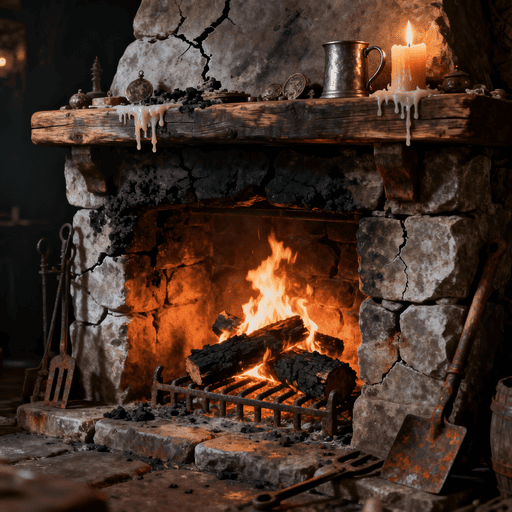
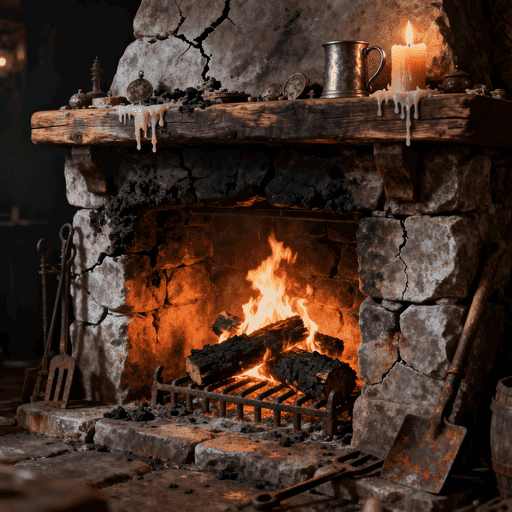
Add a description in the action modal

diff --git a/frontend/views/quest/tavern.php b/frontend/views/quest/tavern.php
@@ -2,14 +2,15 @@
 
 use common\components\gameplay\ChatManager;
 use common\widgets\AjaxContainer;
+use common\widgets\MarkDown;
 
 /** @var yii\web\View $this */
 /** @var common\models\Quest $model */
 /*
- $player = Yii::$app->session->get('currentPlayer');
- $playerId = $player->id;
- $playerName = $player->name;
- $avatar = $player->image->file_name;
+  $player = Yii::$app->session->get('currentPlayer');
+  $playerId = $player->id;
+  $playerName = $player->name;
+  $avatar = $player->image->file_name;
  */
 $playerId = Yii::$app->session->get('playerId');
 $playerName = Yii::$app->session->get('playerName');
@@ -31,10 +32,9 @@ $messages = $chatManager->getLastMessages();
                 <p class="text-decoration mb-3" id="tavernWelcomeMessage"></p>
             </div>
             <div class="card-body">
-                <p class="text-decoration mb-3"><?= $model->description ?></p>
-                <p class="mb-3">This quest allows <?= $model->story->companySize ?> <?=
-    strtolower($model->story->requiredLevels)
-?> to take part in the game.</p>
+                <div class="text-decoration mb-3"><?= MarkDown::widget(['content' => $model->description]) ?></div>
+                <p class="mb-3">This quest allows <?= $model->story->companySize ?>
+                    <?= strtolower($model->story->requiredLevels) ?> to take part in the game.</p>
                 <p class="mb-3" id="tavernMissingPlayers"></p>
                 <p class="mb-0" id="tavernMissingClasses"></p>
             </div>

diff --git a/frontend/controllers/GameController.php b/frontend/controllers/GameController.php
@@ -272,7 +272,7 @@ class GameController extends Controller
      * @param Request $postRequest
      * @return array<string, mixed> An associative array that contains what should be displayed
      */
-    protected function getOutcome(Request $postRequest): array
+    protected function getOutcomeArray(Request $postRequest): array
     {
         $param = [
             'quest_progress_id' => $postRequest->post('questProgressId'),
@@ -280,11 +280,11 @@ class GameController extends Controller
         ];
         $questAction = FindModelHelper::findQuestAction($param);
         $actionManager = new ActionManager(['questAction' => $questAction]);
-        $outcome = $actionManager->evaluateActionOutcome();
+        $outcomeArray = $actionManager->evaluateActionOutcome();
 
-        $this->createEvent('game-action', $postRequest, $questAction->action->name, $outcome);
+        $this->createEvent('game-action', $postRequest, $questAction->action->name, $outcomeArray);
 
-        return $outcome;
+        return $outcomeArray;
     }
 
     /**
@@ -300,9 +300,9 @@ class GameController extends Controller
             return ['error' => true, 'msg' => 'Not an Ajax POST request'];
         }
 
-        $outcome = $this->getOutcome(Yii::$app->request);
+        $outcomeArray = $this->getOutcomeArray(Yii::$app->request);
 
-        $content = $this->renderPartial('ajax/outcomes', $outcome);
+        $content = $this->renderPartial('ajax/outcomes', $outcomeArray);
         return ['error' => false, 'msg' => '', 'content' => $content];
     }
 

diff --git a/frontend/views/game/ajax/outcomes.php b/frontend/views/game/ajax/outcomes.php
@@ -2,17 +2,23 @@
 
 use frontend\widgets\ActionOutcomes;
 use common\widgets\Button;
+use common\widgets\MarkDown;
 
 /** @var yii\web\View $this */
-/** @var string $diceRoll */
+/** @var common\models\Action $action */
 /** @var common\components\AppStatus $status */
 /** @var common\models\Outcome[] $outcomes */
+/** @var string $diceRoll */
 /** @var int $hpLoss */
 /** @var bool $isFree */
+/** @var bool $canReplay */
 /** @var int $questProgressId */
+/** @var int $missionId */
 /** @var int|null $nextMissionId */
 ?>
-
+<div class="card text-decoration">
+    <?= MarkDown::widget(['content' => $action->description]) ?>
+</div>
 <?=
 ActionOutcomes::widget([
     'outcomes' => $outcomes,